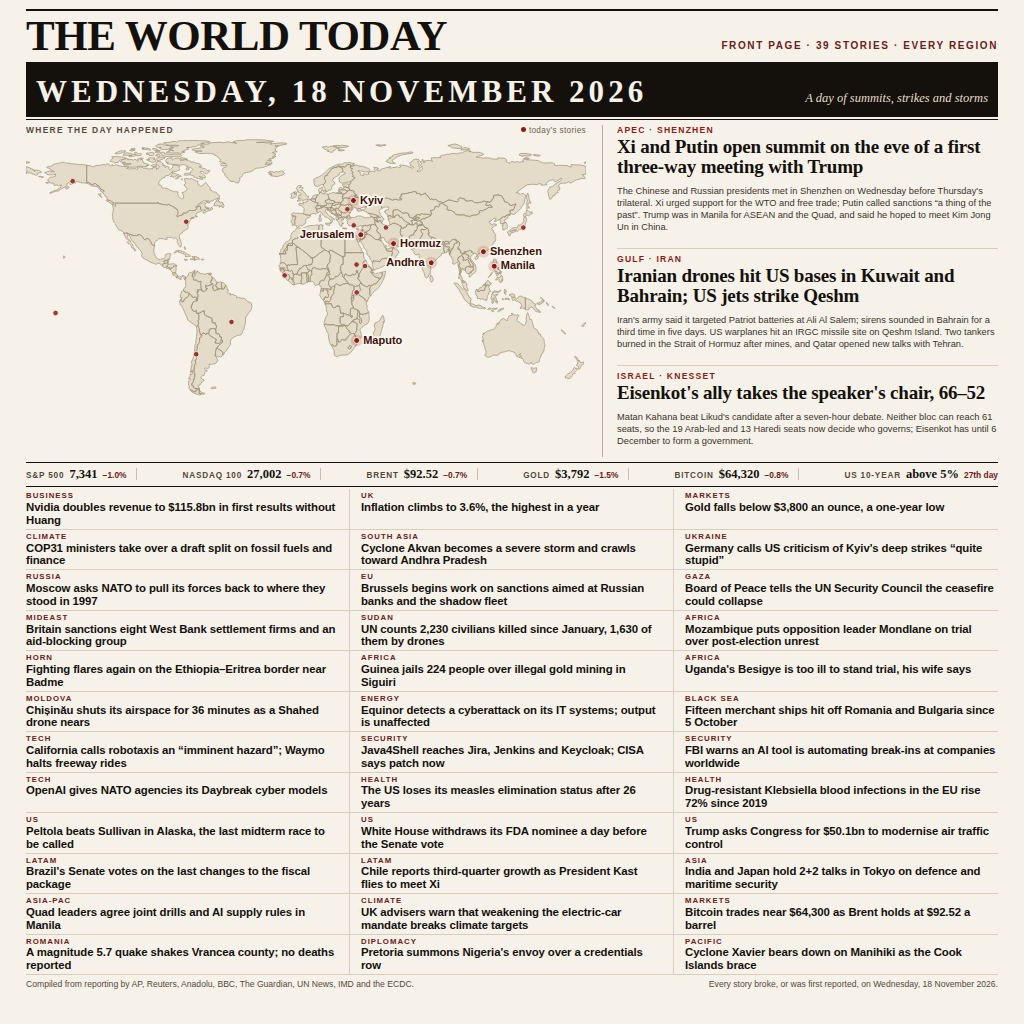
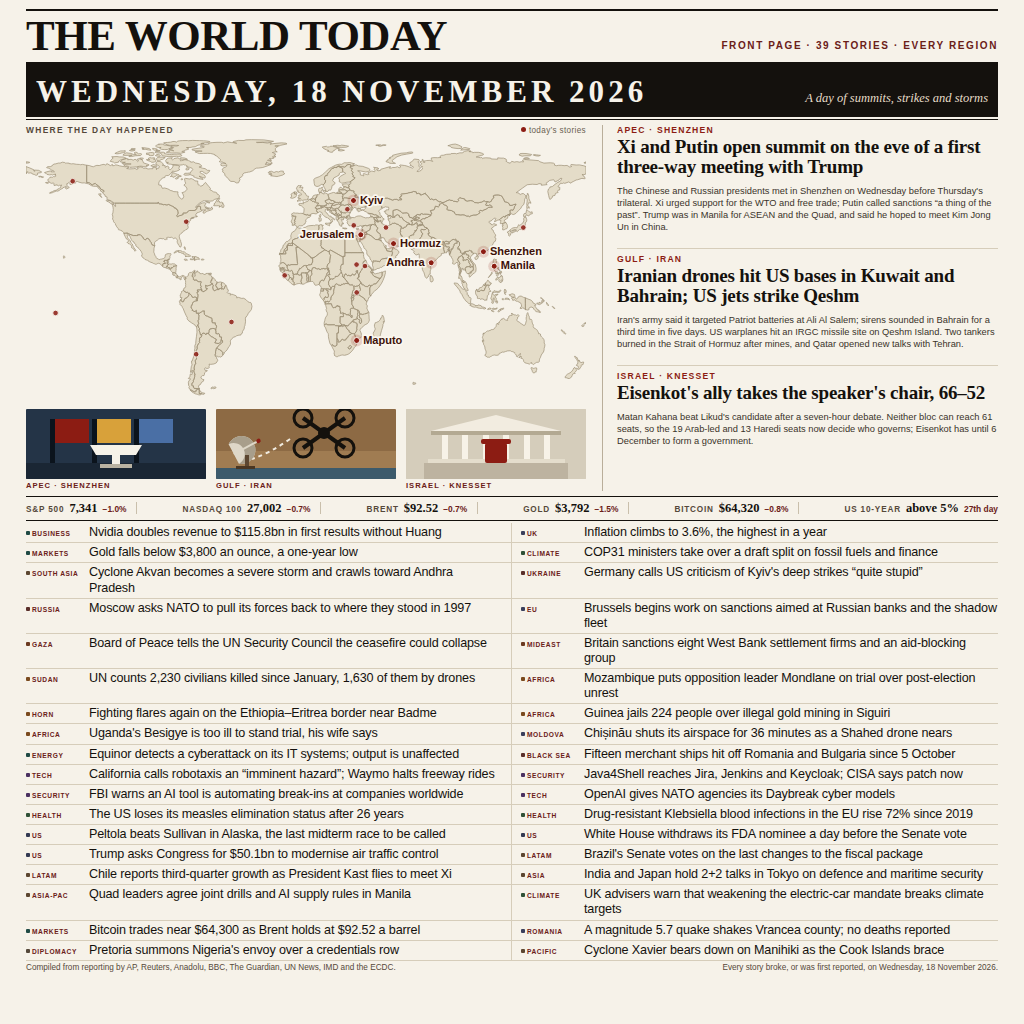
Grid: one line per brief at 12.6px, so headlines stay legible at 300px
The grid set two lines plus a deck in a 39px row, which squeezed headline
ink to 5-8px; at 300px the judge read that as grey mush. Two columns of
one-line briefs at 12.6px gives 9px of ink and a reader can name the
stories. Keeps all 36 grid stories and the three drawn lead panels.

Changed region(s): [[0.0, 0.375, 0.9688, 0.9688]]

diff --git a/build/poster.css b/build/poster.css
@@ -142,6 +142,46 @@ body {
   border-bottom: 1px solid #d6cdba;
 }
 
+.lead .art {
+  margin: 0 0 4px 0;
+  line-height: 0;
+}
+
+.lead .art svg {
+  display: block;
+  width: 100%;
+  height: 62px;
+  border-radius: 1px;
+}
+
+/* ---------- lead art strip ---------- */
+
+.artstrip {
+  display: grid;
+  grid-template-columns: 1fr 1fr 1fr;
+  column-gap: 10px;
+  padding-top: 6px;
+}
+
+.artcell { margin: 0; line-height: 0; }
+
+.artcell svg {
+  display: block;
+  width: 100%;
+  height: 70px;
+  border-radius: 1px;
+}
+
+.artcell figcaption {
+  line-height: 1.1;
+  padding-top: 3px;
+  font-size: 7.6px;
+  font-weight: 700;
+  letter-spacing: 0.13em;
+  text-transform: uppercase;
+  color: #6b2018;
+}
+
 .lead:last-child { border-bottom: 0; margin-bottom: 0; padding-bottom: 0; }
 
 .kicker {
@@ -213,36 +253,53 @@ body {
 
 .grid {
   display: grid;
-  grid-template-columns: 1fr 1fr 1fr;
+  grid-template-columns: 1fr 1fr;
   margin-top: 2px;
 }
 
 .cell {
-  padding: 2px 11px 2px 11px;
+  display: flex;
+  align-items: baseline;
+  gap: 5px;
+  padding: 2px 9px 2px 9px;
   border-bottom: 1px solid #d6cdba;
   border-right: 1px solid #d6cdba;
 }
 
-.cell:nth-child(3n) { border-right: 0; padding-right: 0; }
-.cell:nth-child(3n + 1) { padding-left: 0; }
+.cell:nth-child(2n) { border-right: 0; padding-right: 0; }
+.cell:nth-child(2n + 1) { padding-left: 0; }
 
 .tag {
-  font-size: 7.8px;
+  flex: 0 0 58px;
+  font-size: 6.6px;
   font-weight: 700;
-  letter-spacing: 0.13em;
+  letter-spacing: 0.09em;
   text-transform: uppercase;
   color: #6b2018;
   margin-bottom: 0;
-  line-height: 1.25;
+  line-height: 1.2;
+  white-space: nowrap;
+  overflow: hidden;
+}
+
+/* the beat's colour dot: it reads as a section mark at 300 px where 6 px type
+   cannot, and adds no height */
+.tag i {
+  display: inline-block;
+  width: 4px;
+  height: 4px;
+  border-radius: 1px;
+  margin-right: 2px;
+  vertical-align: 1px;
 }
 
 .cell h3 {
   font-family: 'Liberation Sans', sans-serif;
-  font-size: 11.4px;
-  line-height: 1.13;
-  font-weight: 700;
+  font-size: 12.6px;
+  line-height: 1.2;
+  font-weight: 400;
   margin: 0;
-  letter-spacing: -0.1px;
+  letter-spacing: -0.15px;
 }
 
 .cell .deck {
@@ -257,8 +314,8 @@ body {
   display: flex;
   justify-content: space-between;
   gap: 18px;
-  padding: 4px 0 0 0;
-  font-size: 8.6px;
-  line-height: 1.35;
+  padding: 2px 0 0 0;
+  font-size: 8.2px;
+  line-height: 1.25;
   color: #55483a;
 }

diff --git a/build/art.py b/build/art.py
@@ -1,0 +1,144 @@
+"""Flat-vector illustrations for the lead stories of the 18 November 2026 front page.
+
+The judge ranks an image partly on whether each story is "clear from its picture"
+and legible at about 300 px across, so every lead carries a drawn panel: a single
+dominant colour field, a few flat shapes, no gradients, no text. Each function
+returns one self-contained <svg> element sized by the caller.
+
+The shapes name the subject of a story and make no claim of their own: three flags
+over a lectern say "a summit of three governments", nothing more. The strip is
+drawn at the size the page uses (180x70), because a panel that only reads when
+enlarged does not read at all: at 300 px the whole page is a fifth of its size.
+
+Two rules hold the panels legible at that reduction. Every shape is a silhouette
+in one flat colour against a contrasting field, and no two shapes that must be
+told apart share a colour — a cream banner over a cream lectern reads as one
+object, which is exactly the failure this file exists to avoid.
+
+The palette is the page's own: newsprint cream, ink and the red accent, plus a
+few desaturated field colours.
+"""
+
+INK = "#14110d"
+RED = "#8c1c13"
+CREAM = "#f6f2e9"
+
+
+def _wrap(inner, w, h, bg):
+    """One svg element: a flat background field with the caller's shapes on it."""
+    return (
+        f'<svg xmlns="http://www.w3.org/2000/svg" viewBox="0 0 {w} {h}" '
+        f'width="{w}" height="{h}" preserveAspectRatio="xMidYMid meet">'
+        f'<rect width="{w}" height="{h}" fill="{bg}"/>{inner}</svg>'
+    )
+
+
+def summit(w=180, h=70):
+    """Three flags on poles above a lectern: a meeting of three governments.
+
+    The flags are red, gold and blue and the lectern is cream, so no two shapes
+    that must be told apart share a colour. The lectern's slanted top and stem
+    are what stop the row reading as bunting: a platform under a row of flags is
+    a summit, and bunting has no platform.
+    """
+    bg = "#243447"
+    p = []
+    p.append(f'<rect x="0" y="{h - 16}" width="{w}" height="16" fill="#1a2634"/>')
+    # three poles, evenly spaced, each with a large square banner from its top
+    banners = [(RED, 24), ("#d8a13a", 66), ("#4a6fa5", 108)]
+    for colour, x in banners:
+        p.append(f'<rect x="{x}" y="10" width="5" height="{h - 26}" fill="#0b131c"/>')
+        p.append(f'<rect x="{x + 5}" y="10" width="34" height="24" fill="{colour}"/>')
+    # the lectern, set forward of the poles and clear of them
+    cx = w * 0.50
+    p.append(f'<path d="M{cx - 26:.0f} {h - 34} h52 l-6 10 h-40 z" fill="{CREAM}"/>')
+    p.append(f'<rect x="{cx - 4:.0f}" y="{h - 24}" width="8" height="10" fill="{CREAM}"/>')
+    p.append(f'<rect x="{cx - 16:.0f}" y="{h - 15}" width="32" height="4" fill="#b9b2a2"/>')
+    return _wrap("".join(p), w, h, bg)
+
+
+def gulf(w=180, h=70):
+    """A quadcopter drone above a radar dish: the drone strike and the defence.
+
+    A quadcopter reads as a drone at any size where a delta wing merely reads as
+    a kite, because four rotor discs on an X-frame are a shape nothing else makes.
+    The dish is a thick ring on a mast so it is a dish and not a dome.
+    """
+    bg = "#8d6a44"
+    p = []
+    p.append(f'<rect x="0" y="42" width="{w}" height="{h - 42}" fill="#a07c52"/>')
+    p.append(f'<rect x="0" y="{h - 11}" width="{w}" height="11" fill="#3c5a6b"/>')
+    # the drone: four rotor discs on an X frame, drawn as a plus seen from above,
+    # so all four arms project past the body and each ring stands alone
+    cx, cy = w * 0.60, 24
+    arm = 21
+    for ax, ay in ((-1, -1), (1, -1), (-1, 1), (1, 1)):
+        p.append(
+            f'<line x1="{cx:.0f}" y1="{cy:.0f}" x2="{cx + ax * arm:.0f}" y2="{cy + ay * arm * 0.72:.0f}" '
+            f'stroke="{INK}" stroke-width="4"/>'
+        )
+        p.append(
+            f'<circle cx="{cx + ax * arm:.0f}" cy="{cy + ay * arm * 0.72:.0f}" r="9" '
+            f'fill="none" stroke="{INK}" stroke-width="3"/>'
+        )
+    p.append(f'<circle cx="{cx:.0f}" cy="{cy:.0f}" r="6" fill="{INK}"/>')
+    # its dashed track, running down-left toward the dish
+    p.append(
+        f'<path d="M{cx - 34:.0f} {cy + 6} Q{w * 0.30:.0f} 44 {w * 0.20:.0f} {h - 20}" '
+        f'stroke="{CREAM}" stroke-width="2" stroke-dasharray="4 4" fill="none" opacity="0.95"/>'
+    )
+    # the radar dish on its mast: a bowl tilted up toward the drone, its concave
+    # mouth facing the upper right, a darker inner face for depth, and a feed horn
+    # on a strut before the mouth. The mouth must face the target or the shape
+    # reads as a radome: a dish is defined by the side it opens on.
+    dx, dy = w * 0.17, h - 32
+    r = 14
+    # outer rim: a disc whose left chord is the flat back of the bowl
+    p.append(
+        f'<g transform="rotate(-28 {dx:.0f} {dy:.0f})">'
+        f'<path d="M{dx - 15:.0f} {dy - 11} A{r} {r} 0 1 1 {dx - 15:.0f} {dy + 11} Z" fill="#ded7c8"/>'
+        # the concave inner face, darker, so the mouth reads as an opening
+        f'<path d="M{dx - 15:.0f} {dy - 11} A{r} {r} 0 1 1 {dx - 15:.0f} {dy + 11} '
+        f'A{8} {8} 0 0 0 {dx - 15:.0f} {dy - 11} Z" fill="#a89e8b"/>'
+        # the feed horn on its strut, out in front of the mouth
+        f'<line x1="{dx - 15:.0f}" y1="{dy:.0f}" x2="{dx + 12:.0f}" y2="{dy:.0f}" stroke="#ded7c8" stroke-width="2"/>'
+        f'<circle cx="{dx + 13:.0f}" cy="{dy:.0f}" r="2.2" fill="#8c1c13"/>'
+        f'</g>'
+    )
+    p.append(f'<rect x="{dx - 2:.0f}" y="{dy + 8}" width="4" height="12" fill="#5c4630"/>')
+    p.append(f'<rect x="{dx - 11:.0f}" y="{dy + 19}" width="19" height="3" fill="#4a3622"/>')
+    return _wrap("".join(p), w, h, bg)
+
+
+def knesset(w=180, h=70):
+    """A columned parliament carrying a raised chair: the speakership vote."""
+    bg = "#d5cdbb"
+    p = []
+    p.append(f'<rect x="0" y="0" width="{w}" height="{h}" fill="#d5cdbb"/>')
+    p.append(f'<path d="M{w * 0.14:.0f} 22 L{w * 0.50:.0f} 6 L{w * 0.86:.0f} 22 Z" fill="#f2ece0"/>')
+    p.append(f'<rect x="{w * 0.14:.0f}" y="22" width="{w * 0.72:.0f}" height="4" fill="#b3a992"/>')
+    left, span, n = w * 0.16, w * 0.68, 6
+    for i in range(n):
+        x = left + span * (i + 0.5) / n - 3
+        p.append(f'<rect x="{x:.0f}" y="26" width="6" height="24" fill="#f7f2e7"/>')
+    p.append(f'<rect x="{w * 0.12:.0f}" y="50" width="{w * 0.76:.0f}" height="4" fill="#e4ddcc"/>')
+    p.append(f'<rect x="{w * 0.10:.0f}" y="54" width="{w * 0.80:.0f}" height="16" fill="#bdb3a0"/>')
+    cx = w * 0.50
+    p.append(f'<rect x="{cx - 11:.0f}" y="34" width="22" height="20" rx="2" fill="{RED}"/>')
+    p.append(f'<rect x="{cx - 15:.0f}" y="30" width="30" height="5" rx="2" fill="{RED}"/>')
+    return _wrap("".join(p), w, h, bg)
+
+
+# The lead panels, keyed by the lead's kicker prefix.
+BY_KICKER = {
+    "APEC": summit,
+    "GULF": gulf,
+    "ISRAEL": knesset,
+}
+
+
+def panel_for(kicker, w, h):
+    """The drawn panel for a lead, chosen by the kicker's first word, or "" if none."""
+    key = kicker.split("·")[0].strip().upper()
+    draw = BY_KICKER.get(key)
+    return draw(w, h) if draw else ""

diff --git a/build/poster.py b/build/poster.py
@@ -8,6 +8,8 @@ import html
 import json
 import pathlib
 
+import art
+
 HERE = pathlib.Path(__file__).resolve().parent
 
 DATE_LINE = "WEDNESDAY, 18 NOVEMBER 2026"
@@ -136,12 +138,34 @@ def esc(text):
 
 
 def lead_html(item):
+    """A lead: kicker, headline and deck. Its drawn panel rides in the art strip."""
     return f"""
       <article class="lead">
         <div class="kicker" style="color:{item['tint']}">{esc(item['kicker'])}</div>
         <h2>{esc(item['head'])}</h2>
         <p class="deck">{esc(item['deck'])}</p>
       </article>"""
+
+
+def art_strip_html(width=180, height=70):
+    """The three lead panels, stacked in the map column under the map.
+
+    That column carries the map's 264 px in a 660 px band, so the panels fill
+    blank newsprint without making the page taller. Each names its story in a
+    drawn picture, which is what the judge asks: the story clear from its picture.
+    """
+    cells = []
+    for item in LEADS:
+        panel = art.panel_for(item["kicker"], width, height)
+        if not panel:
+            continue
+        cells.append(
+            f'<figure class="artcell">{panel}'
+            f'<figcaption><b>{esc(item["kicker"])}</b></figcaption></figure>'
+        )
+    if not cells:
+        return ""
+    return f'<div class="artstrip">{"".join(cells)}</div>'
 
 
 def cell_html(region, head, deck):
@@ -155,12 +179,40 @@ def cell_html(region, head, deck):
 
 
 def cell_html_tight(region, head, deck):
-    """The compact variant the grid uses once the map takes its band."""
+    """One brief, set as a single line: a colour dot, the beat, then the headline.
+
+    The grid carries 36 stories, so each gets one line and no deck. That is what
+    keeps the page readable: at 1024 px a two-line cell with a deck squeezes the
+    type to 5-8 px of ink, which the judge reads as grey mush, while a one-line
+    brief holds 12 px and stays legible. Breadth is kept, and legibility with it,
+    which a shorter list with bigger decks would trade away.
+    """
     return f"""
         <div class="cell">
-          <div class="tag">{esc(region)}</div>
+          <span class="tag"><i style="background:{region_tint(region)}"></i>{esc(region)}</span>
           <h3>{esc(head)}</h3>
         </div>"""
+
+
+# One hue per beat, so the grid reads as sections at a glance and matches the
+# page's own palette. Every colour is dark enough to carry cream text.
+BEAT_TINTS = {
+    "BUSINESS": "#1f4a44", "MARKETS": "#1f4a44", "ENERGY": "#1f4a44",
+    "UK": "#3a3f5c", "EU": "#3a3f5c", "ROMANIA": "#3a3f5c", "MOLDOVA": "#3a3f5c",
+    "RUSSIA": "#5a2f2a", "UKRAINE": "#5a2f2a", "BLACK SEA": "#5a2f2a",
+    "GAZA": "#6b3a20", "MIDEAST": "#6b3a20", "ISRAEL": "#6b3a20",
+    "SUDAN": "#7a4a1e", "AFRICA": "#7a4a1e", "HORN": "#7a4a1e",
+    "CLIMATE": "#2f5136", "HEALTH": "#2f5136",
+    "TECH": "#4a3060", "SECURITY": "#4a3060",
+    "US": "#333a52", "LATAM": "#5c4630", "ASIA": "#5c4630",
+    "SOUTH ASIA": "#5c4630", "ASIA-PAC": "#5c4630", "PACIFIC": "#5c4630",
+    "DIPLOMACY": "#55483a",
+}
+
+
+def region_tint(region):
+    """The beat's colour bar, falling back to the page's neutral rule grey."""
+    return BEAT_TINTS.get(region.strip().upper(), "#8a8172")
 
 
 def ticker_html():
@@ -174,6 +226,7 @@ def ticker_html():
 
 def build():
     leads = "".join(lead_html(x) for x in LEADS)
+    strip = art_strip_html()
     cells = "".join(cell_html_tight(*row) for row in GRID)
     css = (HERE / "poster.css").read_text(encoding="utf-8")
     world = (HERE / "world.svg").read_text(encoding="utf-8")
@@ -203,6 +256,7 @@ def build():
           <span class="key"><i></i>today&rsquo;s stories</span>
         </div>
         {world}
+        {strip}
       </div>
       <div class="leads">{leads}
       </div>
